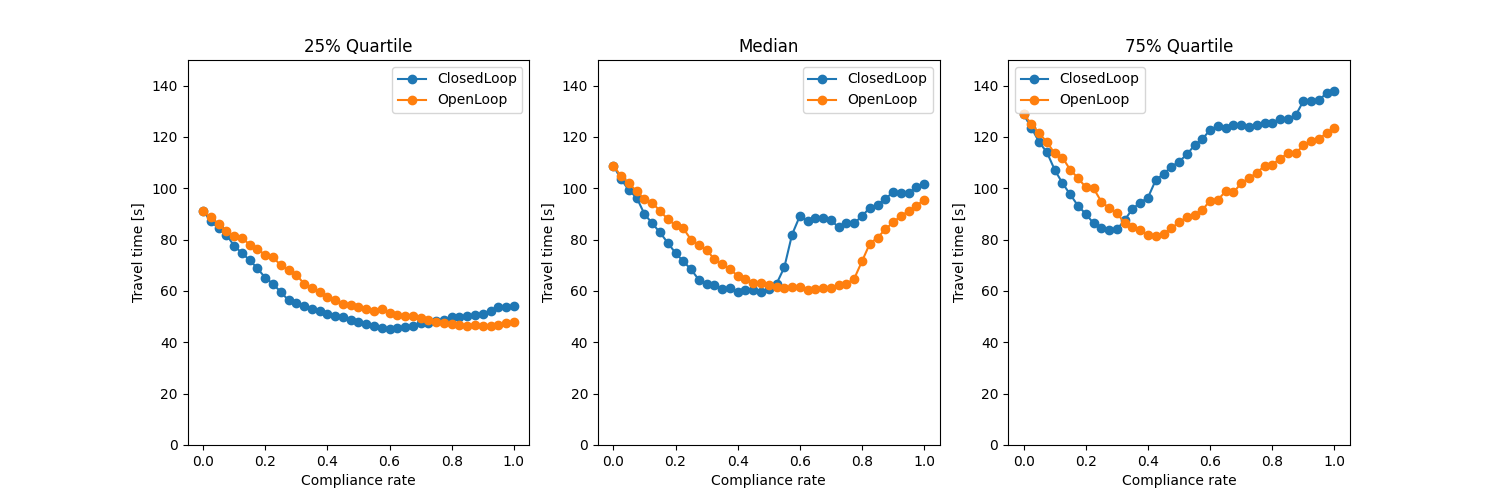
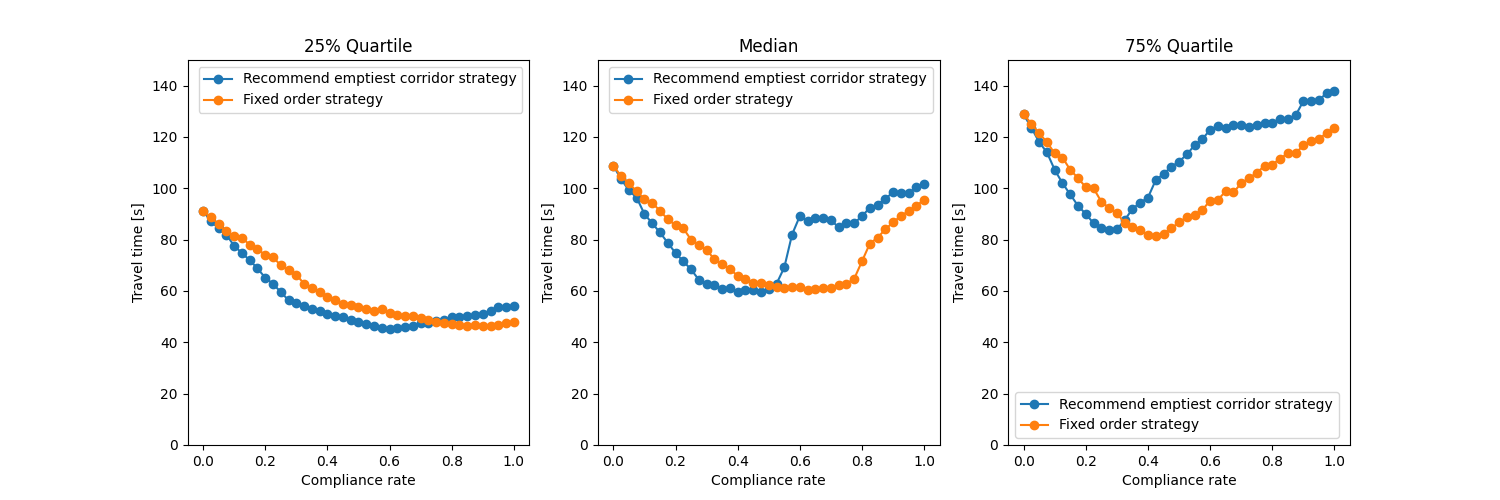
update figures

diff --git a/analysis/uq/simulation_studies/guiding_crowds_forward_propagation/step_3_analyze_results.py b/analysis/uq/simulation_studies/guiding_crowds_forward_propagation/step_3_analyze_results.py
@@ -24,6 +24,14 @@ c__ = {11: "Short",
        'Corridor2':  "Medium",
        'Corridor3':  "Long",
        }
+
+args_boxplot = dict(flierprops=dict(marker='+', markerfacecolor='#AAAAAA', markersize=3,
+                                linestyle='none', markeredgecolor='#AAAAAA'),
+                                boxprops=dict(color ='#464646'),
+                                whiskerprops=dict(linewidth=1),
+                                medianprops=dict(linewidth=2.5, color='k'),
+                                notch=True)
+
 controller__ = {"OpenLoop": "Fixed order strategy",
                 "ClosedLoop" : "Recommend emptiest corridor strategy" }
 sim_time_steady_flow_start = 100
@@ -127,14 +135,16 @@ def plot_travel_time(travel_time):
         data[reaction_prob_key_short] = data[reaction_prob_key_short].round(3)
         data = data.pivot(columns=["reactionProbability"])
         data.columns = data.columns.droplevel()
-        data.boxplot()
+        data.rename(columns=controller__, inplace=True)
+        data.boxplot(**args_boxplot)
         plt.ylim()
         plt.xlabel("Parameter c")
         plt.ylim(0,400)
-        plt.title(f"Controller {c}")
+        plt.title(f"{controller__[c]}")
+        plt.xticks(np.arange(1, 45, 4), [f"{x:.1f}" for x in np.linspace(0, 1, 11)])
         plt.ylabel("Travel time [s]")
         plt.xlabel("Compliance rate")
-        plt.savefig(f"figs/travel_time_{c}.png")
+        plt.savefig(f"figs/travel_time_{controller__[c]}.png")
         plt.show()
         print()
 
@@ -143,6 +153,7 @@ def plot_travel_time(travel_time):
 
     time_25 = travel_time.groupby(by=["Controller",reaction_prob_key_short]).quantile(0.25).unstack(level=0)
     time_25.columns = time_25.columns.droplevel(0)
+    time_25.rename(columns=controller__, inplace=True)
     plt.sca(ax[0])
     time_25.plot(marker="o", ax=ax[0])
     plt.legend()
@@ -155,6 +166,7 @@ def plot_travel_time(travel_time):
 
     time_med = travel_time.groupby(by=["Controller",reaction_prob_key_short]).median().unstack(level=0)
     time_med.columns = time_med.columns.droplevel(0)
+    time_med.rename(columns=controller__, inplace=True)
     plt.sca(ax[1])
     time_med.plot(marker="o", ax=ax[1])
     ax[1].set_title("Median")
@@ -165,6 +177,7 @@ def plot_travel_time(travel_time):
 
     time_75 = travel_time.groupby(by=["Controller",reaction_prob_key_short]).quantile(0.75).unstack(level=0)
     time_75.columns = time_75.columns.droplevel(0)
+    time_75.rename(columns=controller__, inplace=True)
     plt.sca(ax[2])
     time_75.plot(marker="o", ax=ax[2])
     ax[2].set_title("75% Quartile")
@@ -282,9 +295,13 @@ def get_path_choice(controller_type):
     return path_choice
 
 def plot_quantity(densities, file_name, y_min=0, y_max=2.5, ylabel="Density [ped/m*2]"):
-    fig, ax = plt.subplots(nrows=2, ncols=3, figsize=(15, 10))
+    fig, ax = plt.subplots(nrows=3, ncols=2, figsize=(10, 15))
+
     i = 0
+    c_order = list()
     for c, data in densities.groupby(by=["Controller"]):  # oxplot(column="travel_time"):
+
+        c_order.append(controller__[c])
 
         densities_ = data
         densities_[reaction_prob_key_short] = densities_[reaction_prob_key_short].round(3)
@@ -294,25 +311,19 @@ def plot_quantity(densities, file_name, y_min=0, y_max=2.5, ylabel="Density [ped
         ii = 0
         for corridor_ in densities_.columns.get_level_values(0).unique():
             densities__ = densities_.xs(corridor_, axis=1)
-            flierprops = dict(marker='+', markerfacecolor='#AAAAAA', markersize=3,
-                              linestyle='none', markeredgecolor='#AAAAAA')
-            plt.sca(ax[i, ii])
-            densities__.boxplot(flierprops=flierprops,
-                                boxprops=dict(color ='#464646'),
-                                whiskerprops=dict(linewidth=1),
-                                medianprops=dict(linewidth=2.5, color='k'),
-                                notch=True
-                                )
-            ax[i, ii].set_title(f"{controller__[c]}, {c__[corridor_]} corridor.")
-            ax[i, ii].set_ylim(y_min, y_max)
-            ax[i, ii].set_xlabel("Compliance rate r [1]")
-            ax[i, ii].set_ylabel(ylabel)
-            ax[i, ii].set_xticks(np.arange(1,45,4))
-            ax[i, ii].set_xticklabels([f"{x:.1f}" for x in np.linspace(0,1,11)])
+            plt.sca(ax[ii, i])
+            densities__.boxplot(**args_boxplot)
+            ax[ii, i].set_title(f"{c__[corridor_]} corridor.")
+            ax[ii, i].set_ylim(y_min, y_max)
+            ax[ii, i].set_xlabel("Compliance rate r [1]")
+            ax[ii, i].set_ylabel(ylabel)
+            ax[ii, i].set_xticks(np.arange(1,45,4))
+            ax[ii, i].set_xticklabels([f"{x:.1f}" for x in np.linspace(0,1,11)])
 
             ii += 1
         i += 1
 
+    fig.suptitle("                  ".join(c_order), fontsize=16, x= 0.47)
     plt.savefig(f"figs/{file_name}.png")
     plt.show()
     print()
